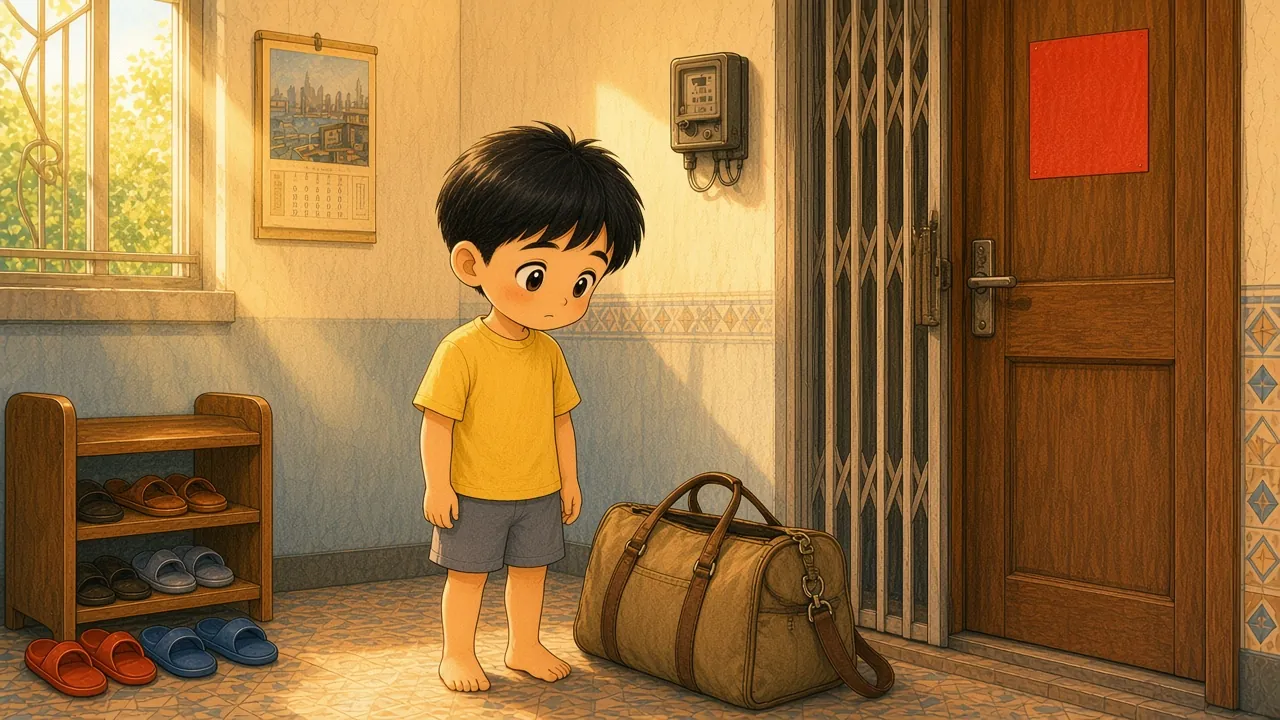
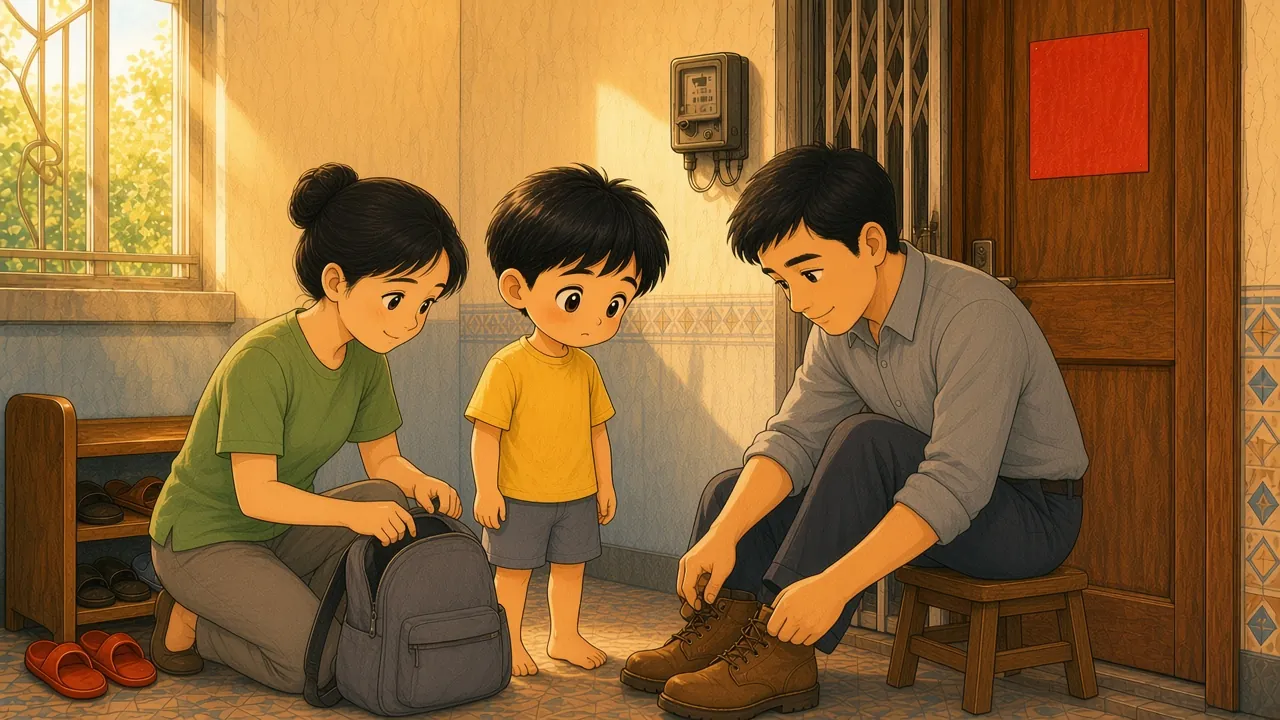
Fill-in redraws: estate with 阿傑 and the red ball, bag with both parents, tvsing for 有人唱歌; routing, anchors, tests

diff --git a/src/game/playtest-audit.test.ts b/src/game/playtest-audit.test.ts
@@ -756,7 +756,7 @@ describe("full review batch 1: art follows the text (no new art)", async () => {
   });
   it("MINI_86_TV keeps the TV room's own painted screen (singing), not the Queen picture", () => {
     assert.ok(art.PLAIN_TV_EVENTS.has("MINI_86_TV"));
-    assert.equal(art.eventPlate("MINI_86_TV", "boy"), "/art/q/tv-boy.webp");
+    assert.equal(art.eventPlate("MINI_86_TV", "boy"), "/art/q/tvsing-boy.webp");
     assert.ok(app.includes('plainTv={PLAIN_TV_EVENTS.has(state.eventId ?? "")}'));
   });
   it("1986 opening is titled 電視; Monday walk is tagged 幼稚園門口", () => {
@@ -811,7 +811,7 @@ describe("HK-accurate redraws: routing for the new paintings", async () => {
   });
   it("new paintings exist, are in the manifest, and have anchors", () => {
     const manifest = art.imageManifest();
-    for (const name of ["rainempty", "shoes1988"]) {
+    for (const name of ["rainempty", "shoes1988", "tvsing"]) {
       assert.ok(SCENE_ANCHORS[name]?.child, `${name} child anchor`);
       for (const g of ["boy", "girl"]) {
         assert.ok(existsSync(new URL(`../../public/art/q/${name}-${g}.webp`, import.meta.url)), `${name}-${g}`);
@@ -822,5 +822,18 @@ describe("HK-accurate redraws: routing for the new paintings", async () => {
   it("the art bible records the HK era rules and the new style baseline", () => {
     const bible = readFileSync(new URL("../../docs/ART_BIBLE.md", import.meta.url), "utf8");
     for (const word of ["鐵閘", "紅白格", "鐵窗", "屋邨商場", "水泥平台", "綠色欄杆", "shoes1988"]) assert.ok(bible.includes(word), word);
+  });
+});
+
+describe("fill-in redraws: estate with 阿傑, bag with both parents, tvsing", async () => {
+  const { SCENE_ANCHORS, isOffscreen } = await import("./sceneAnchors.ts");
+  const art = await import("./art.ts");
+  it("bag shows mum and dad in the painting (no 旁邊), estate points 阿傑 at the striped-tee boy", () => {
+    assert.equal(isOffscreen(SCENE_ANCHORS.bag.媽媽), false);
+    assert.equal(isOffscreen(SCENE_ANCHORS.bag.爸爸), false);
+    assert.ok(SCENE_ANCHORS.estate.阿傑 && !isOffscreen(SCENE_ANCHORS.estate.阿傑));
+  });
+  it("有人唱歌 uses the TV room with the singer painted on the set", () => {
+    for (const g of ["boy", "girl"] as const) assert.equal(art.eventPlate("MINI_86_TV", g), `/art/q/tvsing-${g}.webp`);
   });
 });

diff --git a/src/game/sceneAnchors.ts b/src/game/sceneAnchors.ts
@@ -17,12 +17,12 @@ export type SceneAnchors = Partial<Record<Who, HeadAnchor | Offscreen>>;
 const a = (x: number, y: number, r: number): HeadAnchor => ({ x, y, r });
 
 export const SCENE_ANCHORS: Record<string, SceneAnchors> = {
-  bag: { 媽媽: { offscreen: "left", label: "旁邊" }, 爸爸: { offscreen: "right", label: "旁邊" }, child: a(0.42, 0.3, 0.08) },
+  bag: { 媽媽: a(0.29, 0.32, 0.07), 爸爸: a(0.63, 0.28, 0.07), child: a(0.45, 0.34, 0.07) },
   bags: { 媽媽: a(0.65, 0.15, 0.08), child: a(0.42, 0.52, 0.07) },
   corridor: { 媽媽: a(0.78, 0.18, 0.09), 阿傑: a(0.6, 0.35, 0.05), child: a(0.48, 0.48, 0.07) },
   draw: { child: a(0.44, 0.58, 0.08) },
   ending: { child: a(0.3, 0.47, 0.05) },
-  estate: { 阿傑: a(0.68, 0.57, 0.03), child: a(0.36, 0.45, 0.07) },
+  estate: { 阿傑: a(0.42, 0.39, 0.07), child: a(0.29, 0.45, 0.07) },
   home1996: { child: a(0.57, 0.18, 0.07) },
   home: { 爸爸: a(0.45, 0.35, 0.06), 媽媽: a(0.7, 0.4, 0.06), child: a(0.58, 0.48, 0.05) },
   inside: { 阿傑: a(0.6, 0.3, 0.1), 老師: a(0.74, 0.18, 0.06), child: a(0.4, 0.38, 0.1) },
@@ -49,6 +49,7 @@ export const SCENE_ANCHORS: Record<string, SceneAnchors> = {
   stair: { 媽媽: a(0.69, 0.17, 0.09), 阿傑: a(0.53, 0.25, 0.04), child: a(0.45, 0.47, 0.09) },
   study: { 老師: a(0.64, 0.32, 0.05), child: a(0.32, 0.48, 0.12) },
   toy: { 媽媽: a(0.6, 0.3, 0.05), child: a(0.37, 0.4, 0.08) },
+  tvsing: { 爸爸: a(0.32, 0.36, 0.07), 媽媽: a(0.19, 0.38, 0.07), child: a(0.43, 0.55, 0.07) },
   tv: { 爸爸: a(0.33, 0.35, 0.07), 媽媽: a(0.17, 0.38, 0.07), child: a(0.43, 0.58, 0.07) },
 };
 

diff --git a/src/game/art.ts b/src/game/art.ts
@@ -9,7 +9,7 @@ const EVENT_PLATE: Record<string, string> = {
   // 你留在家。電視開著，沒有人在看: the child alone in the room with the set on (no adults watching).
   MINI_85_TV: "draw",
   // 電視裡有人唱歌: the TV room with its own painted screen (a singer), not the 1986 Queen picture (see PLAIN_TV_EVENTS).
-  MINI_86_TV: "tv",
+  MINI_86_TV: "tvsing",
   MINI_85_ORANGE: "orange",
   MINI_86_HELP: "bags",
   EVT_1988_PEN_01: "pen",

diff --git a/docs/ART_BIBLE.md b/docs/ART_BIBLE.md
@@ -97,6 +97,8 @@ V2.1：玩家決定**以現有 Q 版圖為準**。下面的頭身比、線、眼
 - `rainempty`：空無一人的平台，用於「沒有人在」。
 - `shoes`：1985、1986，孩子四至五歲。
 - `shoes1988`：1988 簽名，孩子七歲，穿校服。
+- `tvsing`：1986「有人唱歌」，電視上已經畫好唱歌的人，不用合成。
+- `estate`：阿傑穿間條衫、抱著紅球，站在前景。`bag`：媽媽在左邊跪著執書包，孩子在中間，爸爸在右邊坐在木櫈上綁鞋帶。
 
 ## 人物
 
